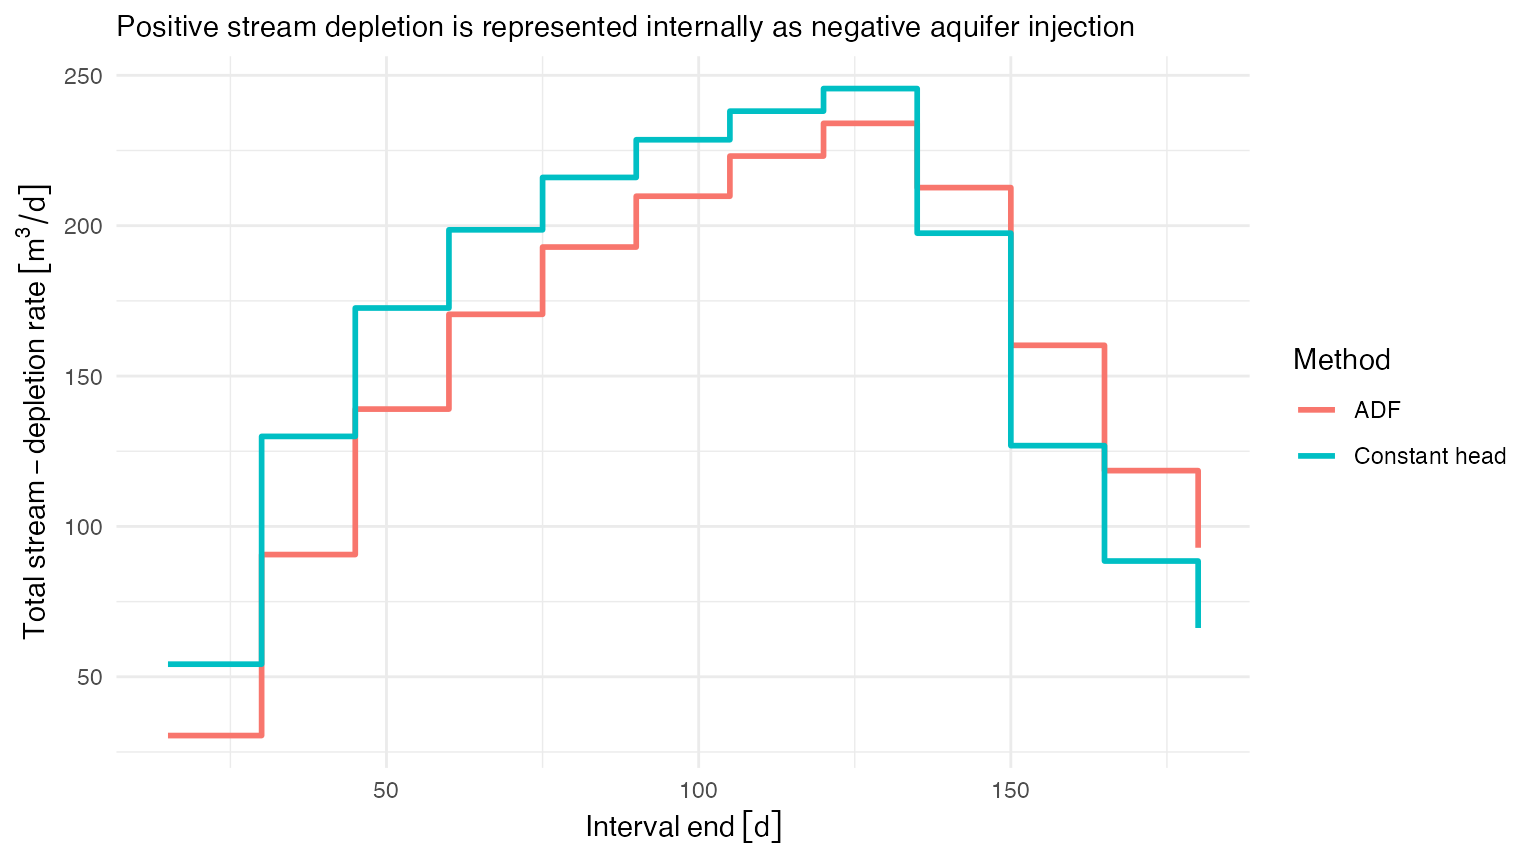
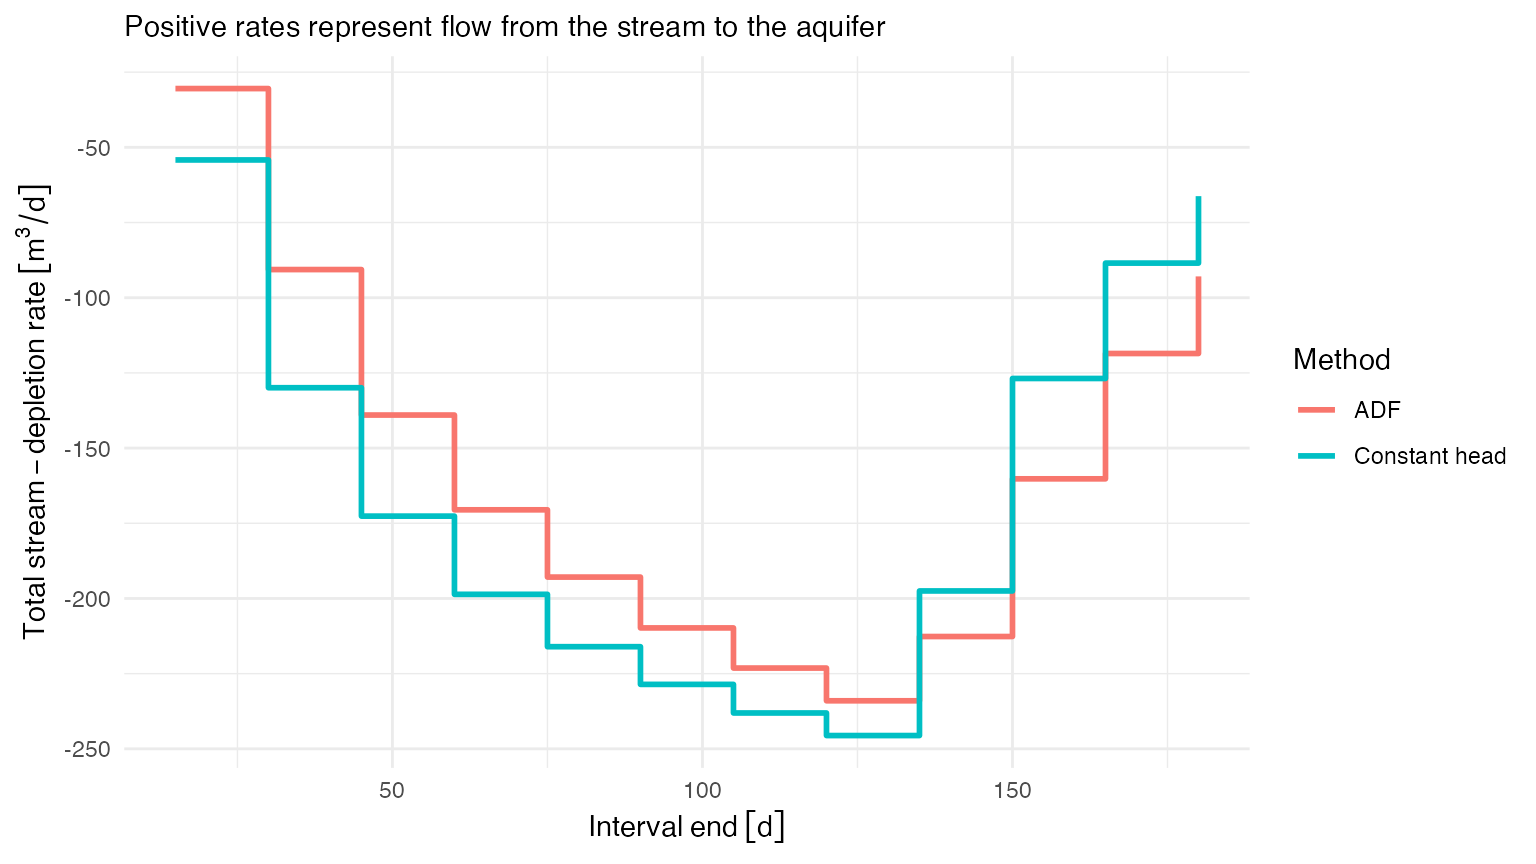
Use positive stream injection rates

diff --git a/docs/reference/generate_stream_injection_schedule.html b/docs/reference/generate_stream_injection_schedule.html
@@ -149,8 +149,9 @@ used per straight edge of each finite line element. The default is 16.</p></dd>
     <h2>Value</h2>
     <p>A tibble with one row per `pump_id`, `reach_segment_id`, and
   injection interval. `interval_start` and `interval_end` retain the time
-  representation used by `pumping_schedules$t`. `injection_rate` is negative
-  when water enters the aquifer. Constant-head schedules additionally
+  representation used by `pumping_schedules$t`. `injection_rate` is positive
+  when water moves from the stream to the aquifer. Constant-head schedules
+  additionally
   contain `aquifer_id`, `boundary_residual`, and
   `matrix_condition_number`.
   Generated schedules carry an `isw_schedule_metadata` attribute recording
@@ -201,16 +202,16 @@ each interval endpoint after accounting for all preceding injection.</p>
 <span class="r-out co"><span class="r-pr">#&gt;</span> <span style="color: #949494;"># A tibble: 168 × 6</span></span>
 <span class="r-out co"><span class="r-pr">#&gt;</span>    pump_id reach_id  reach_segment_id interval_start interval_end injection_rate</span>
 <span class="r-out co"><span class="r-pr">#&gt;</span>    <span style="color: #949494; font-style: italic;">&lt;chr&gt;</span>   <span style="color: #949494; font-style: italic;">&lt;chr&gt;</span>     <span style="color: #949494; font-style: italic;">&lt;chr&gt;</span>                       <span style="color: #949494;">[d]</span>          <span style="color: #949494;">[d]</span>        <span style="color: #949494;">[m^3/d]</span></span>
-<span class="r-out co"><span class="r-pr">#&gt;</span> <span style="color: #BCBCBC;"> 1</span> pump_1  upstream… upstream_1_segm…              0           10      -<span style="color: #BB0000;">1.26</span><span style="color: #949494;">e</span><span style="color: #BB0000;">-13</span></span>
-<span class="r-out co"><span class="r-pr">#&gt;</span> <span style="color: #BCBCBC;"> 2</span> pump_1  upstream… upstream_1_segm…             10           20      -<span style="color: #BB0000;">2.85</span><span style="color: #949494;">e</span><span style="color: #BB0000;">- 7</span></span>
-<span class="r-out co"><span class="r-pr">#&gt;</span> <span style="color: #BCBCBC;"> 3</span> pump_1  upstream… upstream_1_segm…             20           30      -<span style="color: #BB0000;">4.06</span><span style="color: #949494;">e</span><span style="color: #BB0000;">- 5</span></span>
-<span class="r-out co"><span class="r-pr">#&gt;</span> <span style="color: #BCBCBC;"> 4</span> pump_1  upstream… upstream_1_segm…              0           10      -<span style="color: #BB0000;">8.10</span><span style="color: #949494;">e</span><span style="color: #BB0000;">-14</span></span>
-<span class="r-out co"><span class="r-pr">#&gt;</span> <span style="color: #BCBCBC;"> 5</span> pump_1  upstream… upstream_1_segm…             10           20      -<span style="color: #BB0000;">2.24</span><span style="color: #949494;">e</span><span style="color: #BB0000;">- 7</span></span>
-<span class="r-out co"><span class="r-pr">#&gt;</span> <span style="color: #BCBCBC;"> 6</span> pump_1  upstream… upstream_1_segm…             20           30      -<span style="color: #BB0000;">3.42</span><span style="color: #949494;">e</span><span style="color: #BB0000;">- 5</span></span>
-<span class="r-out co"><span class="r-pr">#&gt;</span> <span style="color: #BCBCBC;"> 7</span> pump_1  upstream… upstream_1_segm…              0           10      -<span style="color: #BB0000;">2.01</span><span style="color: #949494;">e</span><span style="color: #BB0000;">-14</span></span>
-<span class="r-out co"><span class="r-pr">#&gt;</span> <span style="color: #BCBCBC;"> 8</span> pump_1  upstream… upstream_1_segm…             10           20      -<span style="color: #BB0000;">1.07</span><span style="color: #949494;">e</span><span style="color: #BB0000;">- 7</span></span>
-<span class="r-out co"><span class="r-pr">#&gt;</span> <span style="color: #BCBCBC;"> 9</span> pump_1  upstream… upstream_1_segm…             20           30      -<span style="color: #BB0000;">2.04</span><span style="color: #949494;">e</span><span style="color: #BB0000;">- 5</span></span>
-<span class="r-out co"><span class="r-pr">#&gt;</span> <span style="color: #BCBCBC;">10</span> pump_1  upstream… upstream_1_segm…              0           10      -<span style="color: #BB0000;">1.79</span><span style="color: #949494;">e</span><span style="color: #BB0000;">-15</span></span>
+<span class="r-out co"><span class="r-pr">#&gt;</span> <span style="color: #BCBCBC;"> 1</span> pump_1  upstream… upstream_1_segm…              0           10       1.26<span style="color: #949494;">e</span><span style="color: #BB0000;">-13</span></span>
+<span class="r-out co"><span class="r-pr">#&gt;</span> <span style="color: #BCBCBC;"> 2</span> pump_1  upstream… upstream_1_segm…             10           20       2.85<span style="color: #949494;">e</span><span style="color: #BB0000;">- 7</span></span>
+<span class="r-out co"><span class="r-pr">#&gt;</span> <span style="color: #BCBCBC;"> 3</span> pump_1  upstream… upstream_1_segm…             20           30       4.06<span style="color: #949494;">e</span><span style="color: #BB0000;">- 5</span></span>
+<span class="r-out co"><span class="r-pr">#&gt;</span> <span style="color: #BCBCBC;"> 4</span> pump_1  upstream… upstream_1_segm…              0           10       8.10<span style="color: #949494;">e</span><span style="color: #BB0000;">-14</span></span>
+<span class="r-out co"><span class="r-pr">#&gt;</span> <span style="color: #BCBCBC;"> 5</span> pump_1  upstream… upstream_1_segm…             10           20       2.24<span style="color: #949494;">e</span><span style="color: #BB0000;">- 7</span></span>
+<span class="r-out co"><span class="r-pr">#&gt;</span> <span style="color: #BCBCBC;"> 6</span> pump_1  upstream… upstream_1_segm…             20           30       3.42<span style="color: #949494;">e</span><span style="color: #BB0000;">- 5</span></span>
+<span class="r-out co"><span class="r-pr">#&gt;</span> <span style="color: #BCBCBC;"> 7</span> pump_1  upstream… upstream_1_segm…              0           10       2.01<span style="color: #949494;">e</span><span style="color: #BB0000;">-14</span></span>
+<span class="r-out co"><span class="r-pr">#&gt;</span> <span style="color: #BCBCBC;"> 8</span> pump_1  upstream… upstream_1_segm…             10           20       1.07<span style="color: #949494;">e</span><span style="color: #BB0000;">- 7</span></span>
+<span class="r-out co"><span class="r-pr">#&gt;</span> <span style="color: #BCBCBC;"> 9</span> pump_1  upstream… upstream_1_segm…             20           30       2.04<span style="color: #949494;">e</span><span style="color: #BB0000;">- 5</span></span>
+<span class="r-out co"><span class="r-pr">#&gt;</span> <span style="color: #BCBCBC;">10</span> pump_1  upstream… upstream_1_segm…              0           10       1.79<span style="color: #949494;">e</span><span style="color: #BB0000;">-15</span></span>
 <span class="r-out co"><span class="r-pr">#&gt;</span> <span style="color: #949494;"># ℹ 158 more rows</span></span>
 <span class="r-in"><span></span></span>
 </code></pre></div>

diff --git a/docs/articles/stream-injection-methods.html b/docs/articles/stream-injection-methods.html
@@ -512,9 +512,8 @@ warns when the condition number exceeds
 <h3 id="compare-total-stream-depletion">Compare total stream depletion<a class="anchor" aria-label="anchor" href="#compare-total-stream-depletion"></a>
 </h3>
 <p>Water lost from the stream enters the aquifer. The schedule reports
-this as a negative total <code>injection_rate</code> for each finite
-line element. Its negative is the corresponding positive
-stream-depletion rate.</p>
+this as a positive total <code>injection_rate</code> for each finite
+line element.</p>
 <p>For ADF, this quantity is the interval-average analytical depletion
 distributed among the segments. For constant head, it is the total
 injection needed to maintain the boundary condition.</p>
@@ -525,7 +524,7 @@ injection needed to maintain the boundary condition.</p>
 <span><span class="op">)</span> <span class="op">|&gt;</span></span>
 <span>  <span class="fu"><a href="https://dplyr.tidyverse.org/reference/group_by.html" class="external-link">group_by</a></span><span class="op">(</span><span class="va">method</span>, <span class="va">interval_end</span><span class="op">)</span> <span class="op">|&gt;</span></span>
 <span>  <span class="fu"><a href="https://dplyr.tidyverse.org/reference/summarise.html" class="external-link">summarize</a></span><span class="op">(</span></span>
-<span>    stream_depletion_rate <span class="op">=</span> <span class="op">-</span><span class="fu"><a href="https://rdrr.io/r/base/sum.html" class="external-link">sum</a></span><span class="op">(</span><span class="va">injection_rate</span><span class="op">)</span>,</span>
+<span>    stream_depletion_rate <span class="op">=</span> <span class="fu"><a href="https://rdrr.io/r/base/sum.html" class="external-link">sum</a></span><span class="op">(</span><span class="va">injection_rate</span><span class="op">)</span>,</span>
 <span>    .groups <span class="op">=</span> <span class="st">"drop"</span></span>
 <span>  <span class="op">)</span></span>
 <span></span>
@@ -537,10 +536,7 @@ injection needed to maintain the boundary condition.</p>
 <span>  <span class="fu"><a href="https://ggplot2.tidyverse.org/reference/labs.html" class="external-link">labs</a></span><span class="op">(</span></span>
 <span>    x <span class="op">=</span> <span class="st">"Interval end"</span>,</span>
 <span>    y <span class="op">=</span> <span class="st">"Total stream-depletion rate"</span>,</span>
-<span>    subtitle <span class="op">=</span> <span class="fu"><a href="https://rdrr.io/r/base/paste.html" class="external-link">paste</a></span><span class="op">(</span></span>
-<span>      <span class="st">"Positive stream depletion is represented internally as negative"</span>,</span>
-<span>      <span class="st">"aquifer injection"</span></span>
-<span>    <span class="op">)</span>,</span>
+<span>    subtitle <span class="op">=</span> <span class="st">"Positive rates represent flow from the stream to the aquifer"</span>,</span>
 <span>    color <span class="op">=</span> <span class="st">"Method"</span></span>
 <span>  <span class="op">)</span> <span class="op">+</span></span>
 <span>  <span class="fu"><a href="https://ggplot2.tidyverse.org/reference/ggtheme.html" class="external-link">theme_minimal</a></span><span class="op">(</span><span class="op">)</span></span></code></pre></div>
@@ -577,7 +573,7 @@ can be compared directly.</p>
 <span>          <span class="fu"><a href="https://rdrr.io/r/base/paste.html" class="external-link">paste</a></span><span class="op">(</span><span class="st">"Day"</span>, <span class="fu"><a href="https://rdrr.io/r/base/numeric.html" class="external-link">as.numeric</a></span><span class="op">(</span><span class="va">snapshot</span><span class="op">)</span><span class="op">)</span>,</span>
 <span>          levels <span class="op">=</span> <span class="fu"><a href="https://rdrr.io/r/base/paste.html" class="external-link">paste</a></span><span class="op">(</span><span class="st">"Day"</span>, <span class="fu"><a href="https://rdrr.io/r/base/numeric.html" class="external-link">as.numeric</a></span><span class="op">(</span><span class="va">injection_snapshots</span><span class="op">)</span><span class="op">)</span></span>
 <span>        <span class="op">)</span>,</span>
-<span>        injection_rate_m3_day <span class="op">=</span> <span class="op">-</span><span class="fu"><a href="https://rdrr.io/r/base/numeric.html" class="external-link">as.numeric</a></span><span class="op">(</span><span class="fu"><a href="https://r-quantities.github.io/units/reference/units.html" class="external-link">set_units</a></span><span class="op">(</span></span>
+<span>        injection_rate_m3_day <span class="op">=</span> <span class="fu"><a href="https://rdrr.io/r/base/numeric.html" class="external-link">as.numeric</a></span><span class="op">(</span><span class="fu"><a href="https://r-quantities.github.io/units/reference/units.html" class="external-link">set_units</a></span><span class="op">(</span></span>
 <span>          <span class="va">injection_rate</span>,</span>
 <span>          <span class="st">"m^3/day"</span></span>
 <span>        <span class="op">)</span><span class="op">)</span></span>

diff --git a/docs/news/index.html b/docs/news/index.html
@@ -66,7 +66,7 @@
 <div class="section level3">
 <h3 id="stream-injection-and-water-level-response-0-1-0-9000">Stream injection and water-level response<a class="anchor" aria-label="anchor" href="#stream-injection-and-water-level-response-0-1-0-9000"></a></h3>
 <ul><li>Added <code><a href="../reference/prep_stream_segments.html">prep_stream_segments()</a></code> to separate projected stream discretization from ADF apportionment. Stream width is stored once per segment and defaults to 1 m when it is not supplied at the reach level.</li>
-<li>Added <code><a href="../reference/generate_stream_injection_schedule.html">generate_stream_injection_schedule()</a></code> with ADF and constant-head methods. It reports signed, piecewise-constant aquifer-injection rates. The constant-head method solves pump-specific discrete-well rates that enforce zero signed water-level change at stream model points at interval endpoints. Precomputed output from <code><a href="../reference/model_adf_stream_depletion.html">model_adf_stream_depletion()</a></code> can be reused when it includes every schedule boundary.</li>
+<li>Added <code><a href="../reference/generate_stream_injection_schedule.html">generate_stream_injection_schedule()</a></code> with ADF and constant-head methods. It reports piecewise-constant injection rates that are positive when water moves from a stream to the aquifer. The constant-head method solves pump-specific discrete-well rates that enforce zero signed water-level change at stream model points at interval endpoints. Precomputed output from <code><a href="../reference/model_adf_stream_depletion.html">model_adf_stream_depletion()</a></code> can be reused when it includes every schedule boundary.</li>
 <li>Added boundary-residual and response-matrix condition-number diagnostics for constant-head schedules. Condition numbers above <code>1e6</code> produce a warning.</li>
 <li>Replaced the Boolean <code>allow_many_aquifer_parameter_sets</code> argument with the numeric <code>allow_n_aquifer_parameter_sets</code>. Constant-head calculations allow up to five unique aquifer parameter sets by default; callers can set a different positive whole-number limit or use <code>Inf</code>.</li>
 <li>Reorganized the public API around explicit verbs: <code>fetch_</code> retrieves external data, <code>prep_</code> constructs static model inputs, <code>generate_</code> constructs a stream- injection schedule, <code>model_</code> evaluates scheduled responses, and <code>calc_</code> exposes specialized single-pump analytical calculations.</li>

diff --git a/docs/articles/adf-modeling-internals.html b/docs/articles/adf-modeling-internals.html
@@ -913,8 +913,8 @@ below.</p>
 <p>Depletion is evaluated at the start and end of each interval. The
 arithmetic mean of those two rates defines the depletion magnitude for
 that interval. <code><a href="../reference/generate_stream_injection_schedule.html">generate_stream_injection_schedule()</a></code> reports
-its negative as the aquifer-injection rate because stream water enters
-the aquifer.</p>
+that mean as a positive <code>injection_rate</code> because stream water
+enters the aquifer.</p>
 <div class="sourceCode" id="cb24"><pre class="downlit sourceCode r">
 <code class="sourceCode R"><span><span class="va">depletion_at_injection_times</span> <span class="op">&lt;-</span> <span class="fu"><a href="../reference/model_adf_stream_depletion.html">model_adf_stream_depletion</a></span><span class="op">(</span></span>
 <span>  <span class="va">pumping_wells</span>,</span>
@@ -967,11 +967,11 @@ the aquifer.</p>
 <p><code>depletion_at_injection_times</code> contains the segment-level
 depletion rates at the start and end of each interval.
 <code>.get_interval_average_injection_schedule()</code> first converts
-them to the signed injection rates returned by
+them to the positive injection rates returned by
 <code><a href="../reference/generate_stream_injection_schedule.html">generate_stream_injection_schedule()</a></code>.
 <code>.get_injection_rate_changes()</code> then converts successive
-interval rates to change events for the superposition calculation in
-<code><a href="../reference/model_aquifer_water_level_change.html">model_aquifer_water_level_change()</a></code>.</p>
+interval rates to negative, signed change events for the superposition
+calculation in <code><a href="../reference/model_aquifer_water_level_change.html">model_aquifer_water_level_change()</a></code>.</p>
 <p>Optional <code>injection_times</code> add times at which new
 intervals start, creating a finer piecewise-constant approximation. They
 do not change <code>evaluation_times</code>. Extra times after the final

diff --git a/NEWS.md b/NEWS.md
@@ -6,7 +6,8 @@
   from ADF apportionment. Stream width is stored once per segment and defaults
   to 1 m when it is not supplied at the reach level.
 * Added `generate_stream_injection_schedule()` with ADF and constant-head methods.
-  It reports signed, piecewise-constant aquifer-injection rates. The
+  It reports piecewise-constant injection rates that are positive when water
+  moves from a stream to the aquifer. The
   constant-head method solves pump-specific discrete-well rates that enforce
   zero signed water-level change at stream model points at interval endpoints.
   Precomputed output from `model_adf_stream_depletion()` can be reused when it
